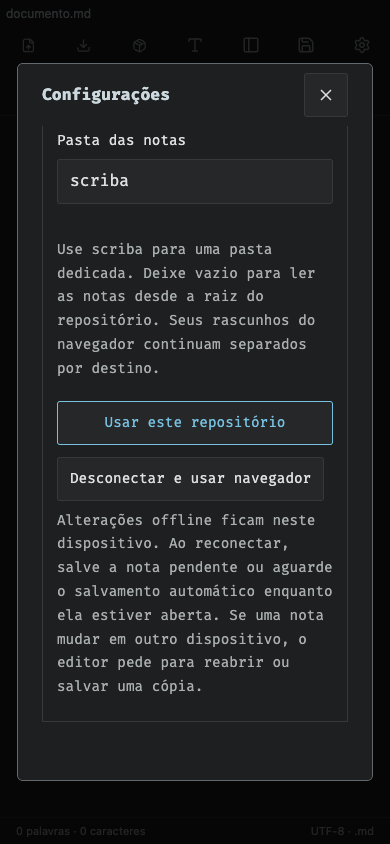
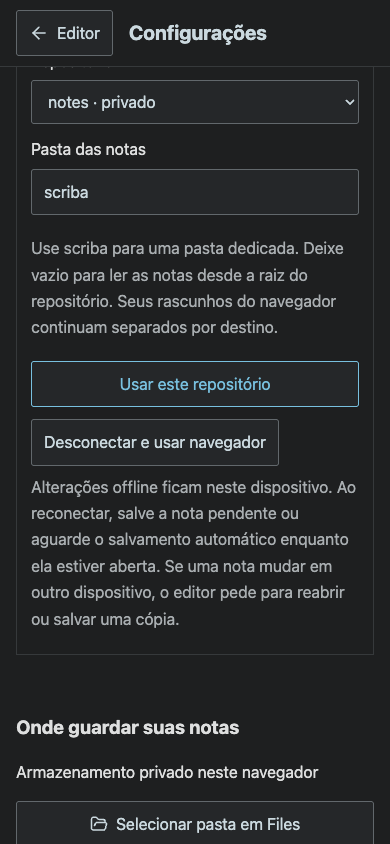
feat: replace settings modal with a dedicated full-page view

diff --git a/src/main.tsx b/src/main.tsx
@@ -4,7 +4,7 @@ import {canChooseFolder, chooseDeviceFolder, folderLabel, disconnectFolder, auth
 import {browserMode} from './lib/browserStore';
 import { StrictMode, useCallback, useEffect, useRef, useState } from 'react';
 import { createRoot } from 'react-dom/client';
-import { FolderGit2, FolderOpen, Save, Upload, Sun, Moon, FilePlus2, Settings, X, Download, CloudOff, PanelLeft, FileText, RefreshCw, Search, Pin, PinOff } from 'lucide-react';
+import { FolderGit2, FolderOpen, Save, Upload, Sun, Moon, FilePlus2, Settings, X, Download, CloudOff, PanelLeft, FileText, RefreshCw, Search, Pin, PinOff, ArrowLeft } from 'lucide-react';
 import { MarkdownWorkbench } from './components/Markdown/MarkdownWorkbench';
 import { NoteThumbnail } from './NoteThumbnail';
 import { noteGroup, shortNoteDate } from './lib/noteDates';
@@ -138,7 +138,20 @@ function App() {
     if (restoringAssets.current && !items.length) return;
     restoringAssets.current = false; setAssets(items);
   }, []);
-  const [settingsOpen, setSettingsOpen] = useState(() => new URLSearchParams(location.search).has('github'));
+  const [settingsOpen, setSettingsOpenState] = useState(() => location.hash === '#settings' || new URLSearchParams(location.search).has('github'));
+  const settingsTitle = useRef<HTMLHeadingElement>(null);
+  const settingsWasOpen = useRef(false);
+  function setSettingsOpen(open: boolean) {
+    if(open && location.hash !== '#settings') history.pushState({scribaSettings:true}, '', `${location.pathname}${location.search}#settings`);
+    if(!open && location.hash === '#settings') history.replaceState(null, '', `${location.pathname}${location.search}`);
+    setSettingsOpenState(open);
+  }
+  function backToEditor() {
+    if(history.state?.scribaSettings) history.back(); else setSettingsOpen(false);
+  }
+  useEffect(() => {const url=new URL(location.href);if(url.searchParams.has('github')){url.searchParams.delete('github');url.hash='settings';history.replaceState(null,'',url.pathname+url.search+url.hash);}}, []);
+  useEffect(() => {const navigate=()=>setSettingsOpenState(location.hash === '#settings');window.addEventListener('popstate',navigate);window.addEventListener('hashchange',navigate);return()=>{window.removeEventListener('popstate',navigate);window.removeEventListener('hashchange',navigate);};}, []);
+  useEffect(() => {if(settingsOpen)settingsTitle.current?.focus();else if(settingsWasOpen.current)document.querySelector<HTMLButtonElement>('button[aria-label="Configurações"]')?.focus();settingsWasOpen.current=settingsOpen;},[settingsOpen]);
   useEffect(() => {const showNotes=()=>setNotesOpen(true);window.addEventListener('scriba:show-notes',showNotes);return()=>window.removeEventListener('scriba:show-notes',showNotes);}, []);
   const [repository, setRepository] = useState<RepositoryInfo>({ repository: null, branch: '', status: '' });
   const [directory, setDirectory] = useState('');
@@ -372,7 +385,8 @@ function App() {
   const statusMessages = <>{error && <div role="alert" className="error toast">{error}<button aria-label="Dispensar erro" onClick={() => setError('')}><X size={18}/></button></div>}{notice && <p role="status" className="notice toast">{notice}</p>}</>;
   return <main aria-busy={busy} className="editor-app">
     {aboutOpen && <EditorDialog title="Sobre o Scriba" onClose={() => setAboutOpen(false)}><div className="about-scriba"><img src="/icons/profile-v3/scribe-180.png" width="96" height="96" alt="Escriba egípcio, símbolo do Scriba"/><h1>Scriba</h1><p className="about-subtitle">AB Markdown Editor</p><p>Scriba vem do latim e significa escriba: quem registra e preserva a palavra escrita. O escriba egípcio da nossa marca representa esse cuidado com suas ideias — agora em notas Markdown que continuam suas.</p><dl><div><dt>Versão</dt><dd>{__APP_VERSION__}</dd></div><div><dt>Compilação</dt><dd><time dateTime={__BUILD_DATE__}>{new Date(__BUILD_DATE__).toLocaleDateString('pt-BR')}</time></dd></div><div><dt>Edição</dt><dd>{browserMode ? 'Web / PWA' : 'Local para Mac'}</dd></div><div><dt>Desenvolvido por</dt><dd>Aeon Bridge Co.</dd></div></dl><p>Powered by Aeon Bridge Co. — offered to community.</p><a href="https://github.com/ab-orbit/ab-markdow-editor" target="_blank" rel="noopener noreferrer">Código-fonte e documentação</a></div></EditorDialog>}
-    {settingsOpen && <EditorDialog title="Configurações" onClose={() => setSettingsOpen(false)}>
+    {settingsOpen && <section className="settings-page" id="settings-page" aria-labelledby="settings-title">
+    <header className="settings-page-header"><div><button type="button" onClick={backToEditor} aria-label="Voltar ao editor"><ArrowLeft size={20}/><span>Editor</span></button><h1 id="settings-title" ref={settingsTitle} tabIndex={-1}>Configurações</h1></div></header>
     <div className="settings-content">
     <section className="pwa-settings" aria-label="Aplicativo PWA">
       <div className="pwa-brand"><img src={brandIcon} width="64" height="64" alt="Escriba egípcio do AB Markdown"/><div><h3>Scriba · AB Markdown Editor</h3><p>{pwa.standalone ? 'Aplicativo instalado' : 'Aplicativo web instalável'} · {pwa.ready ? 'Disponível offline' : 'Preparando modo offline'}</p></div></div>
@@ -411,7 +425,7 @@ function App() {
       </form>
     </section>
     {statusMessages}
-    </div></EditorDialog>}
+    </div></section>}
     {conflict && <EditorDialog title="Resolver versões do arquivo" onClose={() => setConflict(null)}>
       <p><strong>{conflict.name}</strong></p>
       <p>{conflict.kind === 'exists' ? 'Já existe um arquivo com esse nome na pasta.' : conflict.kind === 'deleted' ? 'O arquivo foi removido do disco desde a abertura.' : 'A nota mudou desde a abertura.'} Seu texto continua intacto no editor.</p>
@@ -429,7 +443,7 @@ function App() {
       </form>
     </EditorDialog>}
     {!settingsOpen && statusMessages}
-    <div className="editor-layout">
+    <div className="editor-layout" hidden={settingsOpen} inert={settingsOpen || undefined}>
     {notesOpen && <aside id="recent-notes" className="notes-sidebar" aria-label="Notas recentes">
       <div className="notes-heading"><button type="button" className="about-trigger" aria-label="Sobre o Scriba" title="Sobre o Scriba" onClick={() => setAboutOpen(true)}><img className="notes-logo" src={brandIcon} width="24" height="24" alt=""/></button><div><h2>Notas recentes</h2><p>{query ? `${visibleNotes.length + visiblePinned.length} resultados` : `${recentNotes.length + pinnedNotes.length} notas`}</p></div><button type="button" className="close-notes" aria-label="Fechar lista de notas" onClick={() => setNotesOpen(false)}><X size={18}/></button><button type="button" aria-label="Atualizar notas recentes" disabled={busy || !repository.repository || (offline && !browserMode)} onClick={() => void run(async () => { await refresh(); })}><RefreshCw size={18}/></button></div>
       <label className="notes-search"><Search size={16} aria-hidden="true"/><input type="search" aria-label="Buscar nas notas recentes" placeholder="Buscar notas…" value={noteSearch} onChange={event => setNoteSearch(event.target.value)}/></label>
@@ -446,7 +460,7 @@ function App() {
       <button type="button" aria-controls="recent-notes" aria-expanded={notesOpen} aria-label={notesOpen ? 'Ocultar notas recentes' : 'Mostrar notas recentes'} title="Notas recentes" onClick={() => setNotesOpen(open => !open)}><PanelLeft size={18}/></button>
       {offline && <span className="offline-indicator" aria-label="Modo offline"><CloudOff size={16}/><span>Offline</span></span>}
       {repository.repository && <button type="button" disabled={busy} aria-label={browserMode ? "Salvar nota" : "Salvar no repositório"} title={browserMode ? "Salvar nota (⌘S)" : "Salvar no repositório (⌘S)"} onClick={() => requestSave()}><Save size={18}/></button>}
-      <button type="button" aria-label="Configurações" title="Configurações" aria-haspopup="dialog" aria-expanded={settingsOpen} onClick={() => setSettingsOpen(true)}><Settings size={18}/></button>
+      <button type="button" aria-label="Configurações" title="Configurações" aria-controls="settings-page" aria-expanded={settingsOpen} onClick={() => setSettingsOpen(true)}><Settings size={18}/></button>
     </>}/></fieldset>
     </div>
   </main>;

diff --git a/tests/responsive.spec.ts b/tests/responsive.spec.ts
@@ -25,7 +25,7 @@ for(const device of devices)test(`${device.name}: touch workflow in both orienta
   git('init','-b','main',repo);git('init','--bare','-b','main',remote);for(const [key,value]of[['user.name','Responsive Test'],['user.email','responsive@example.invalid'],['commit.gpgsign','false'],['core.hooksPath','/dev/null']])git('-C',repo,'config',key,value);
   const content='# Responsividade\n\nTexto inicial.\n\n'+Array.from({length:20},(_,i)=>`## Seção ${i}\n\nParágrafo ${i}: leitura longa em celular e tablet, sem perda de conteúdo.\n\n`).join('')+'\n| Coluna A | Coluna B |\n| --- | --- |\n| Teste | Conteúdo |\n\n```text\n'+'a'.repeat(500)+'\n```\n';
   await writeFile(join(repo,'responsive.md'),content);git('-C',repo,'add','.');git('-C',repo,'commit','-m','Initial');git('-C',repo,'remote','add','origin',remote);git('-C',repo,'push','-u','origin','main');
-  await page.setViewportSize({width:device.width,height:device.height});await page.goto('/');const settings=page.getByRole('dialog',{name:'Configurações',exact:true});await expect(settings).toBeVisible();if(!(await page.locator('details.repository').evaluate(el=>el.hasAttribute('open'))))await page.locator('details.repository > summary').tap();await page.route('**/api/pick-folder',route=>route.fulfill({json:{directory:repo}}));await page.getByRole('button',{name:'Selecionar pasta',exact:true}).tap();await expect(settings).toHaveCount(0);
+  await page.setViewportSize({width:device.width,height:device.height});await page.goto('/');const settings=page.getByRole('region', {name:'Configurações',exact:true});await expect(settings).toBeVisible();if(!(await page.locator('details.repository').evaluate(el=>el.hasAttribute('open'))))await page.locator('details.repository > summary').tap();await page.route('**/api/pick-folder',route=>route.fulfill({json:{directory:repo}}));await page.getByRole('button',{name:'Selecionar pasta',exact:true}).tap();await expect(settings).toHaveCount(0);
   await page.getByRole('button',{name:'Mostrar notas recentes'}).tap();await page.getByRole('searchbox',{name:'Buscar nas notas recentes'}).fill('responsividade');await page.getByRole('button',{name:'responsive.md',exact:true}).tap();await page.getByRole('button',{name:'Visão',exact:true}).tap();await splitFits(page);
   for(const orientation of ['portrait','landscape']as const){
    const viewport=orientation==='portrait'?{width:device.width,height:device.height}:{width:device.height,height:device.width};await page.setViewportSize(viewport);await splitFits(page);
@@ -35,7 +35,7 @@ for(const device of devices)test(`${device.name}: touch workflow in both orienta
    const preview=page.getByRole('article');await preview.evaluate(el=>el.scrollTop=el.scrollHeight);await expect(preview).toContainText('Seção 19');await preview.evaluate(el=>el.scrollTop=0);
    for(const button of await page.locator('header button').all()){if(await button.isVisible()){const box=await button.boundingBox();expect(box!.height).toBeGreaterThanOrEqual(44);expect(box!.width).toBeGreaterThanOrEqual(44);}}
    await page.getByRole('button',{name:'Mostrar formatação'}).tap();await expect(page.getByRole('toolbar',{name:'Ferramentas de edição'})).toBeVisible();await page.getByRole('button',{name:'Ocultar formatação'}).tap();
-   await page.getByRole('button',{name:'Configurações',exact:true}).tap();await expect(settings).toBeVisible();await page.getByLabel('Intervalo (minutos)',{exact:true}).fill('2');if(orientation==='landscape')await page.getByLabel('Perguntar nota do commit a cada salvamento',{exact:true}).check();await page.getByRole('button',{name:'Salvar preferências',exact:true}).tap();await settings.getByRole('button',{name:'Fechar',exact:true}).tap();
+   await page.getByRole('button',{name:'Configurações',exact:true}).tap();await expect(settings).toBeVisible();await page.getByLabel('Intervalo (minutos)',{exact:true}).fill('2');if(orientation==='landscape')await page.getByLabel('Perguntar nota do commit a cada salvamento',{exact:true}).check();await page.getByRole('button',{name:'Salvar preferências',exact:true}).tap();await settings.getByRole('button',{name:'Voltar ao editor',exact:true}).tap();
[1 lines of base64/hex data omitted]
    await page.getByRole('button',{name:'Salvar no repositório',exact:true}).tap();
    if(orientation==='landscape'){const note=page.getByRole('dialog',{name:'Nota do commit',exact:true});await expect(note).toBeVisible();await note.getByLabel('Nota do commit',{exact:true}).fill('Touch landscape save');await note.getByRole('button',{name:'Salvar, commit e push',exact:true}).tap();}
@@ -51,7 +51,7 @@ for(const device of devices)test(`${device.name}: touch workflow in both orienta
    const downloaded=page.waitForEvent('download');await page.getByRole('button',{name:'Baixar pacote',exact:true}).tap();const file=await downloaded;const archive=unzipSync(new Uint8Array(await readFile((await file.path())!)));expect(strFromU8(archive['text.md'])).toContain(`Orientação ${orientation}`);expect(Object.keys(archive).some(name=>name.startsWith('assets/'))).toBe(true);
    await page.getByRole('button',{name:'Visão',exact:true}).tap();
   }
-  await page.getByRole('button',{name:'Configurações',exact:true}).tap();await page.getByLabel('Perguntar nota do commit a cada salvamento',{exact:true}).uncheck();await page.getByRole('button',{name:'Salvar preferências',exact:true}).tap();await settings.getByRole('button',{name:'Fechar',exact:true}).tap();
+  await page.getByRole('button',{name:'Configurações',exact:true}).tap();await page.getByLabel('Perguntar nota do commit a cada salvamento',{exact:true}).uncheck();await page.getByRole('button',{name:'Salvar preferências',exact:true}).tap();await settings.getByRole('button',{name:'Voltar ao editor',exact:true}).tap();
   await page.setViewportSize({width:device.width,height:Math.min(280,device.height)});await page.getByRole('button',{name:'Fonte',exact:true}).tap();await page.locator('.cm-content').tap();await page.keyboard.press('ControlOrMeta+Home');await page.keyboard.insertText('Teclado: texto preservado.\n');await shellFits(page);await page.screenshot({path:`docs/evidence/${browserName}-${device.name}-keyboard-area.png`,fullPage:true});await page.setViewportSize({width:device.width,height:device.height});await expect(page.locator('.cm-content')).toContainText('Teclado: texto preservado.');
   await page.getByRole('button',{name:'Salvar no repositório',exact:true}).tap();await expect(page.getByRole('status')).toHaveText('Arquivo salvo, commit criado e enviado ao remoto.');expect(git('-C',remote,'show','main:responsive.md')).toContain('Teclado: texto preservado.');
   await context.setOffline(true);await page.locator('.cm-content').tap();await page.keyboard.press('ControlOrMeta+Home');await page.keyboard.insertText('Rascunho sem rede.\n');await page.getByRole('button',{name:'Salvar no repositório',exact:true}).tap();await expect(page.getByRole('status')).toContainText('Rascunho preservado');await shellFits(page);await expect(page.getByLabel('Modo offline',{exact:true})).toBeVisible();await durableDraft(page,'Rascunho sem rede.');

diff --git a/tests/editor.spec.ts b/tests/editor.spec.ts
@@ -16,7 +16,7 @@ for (const viewport of [{ name: 'desktop', width: 1440, height: 900 }, { name: '
       git('-C',repo,'add','.');git('-C',repo,'commit','-m','Initial');git('-C',repo,'remote','add','origin',remote);git('-C',repo,'push','-u','origin','main');
       await page.setViewportSize(viewport); await page.goto('/');
       page.on('dialog', dialog => dialog.accept());
-      const settings = page.getByRole('dialog', { name: 'Configurações', exact: true });
+      const settings = page.getByRole('region', {name:'Configurações',exact:true});
       const gear = page.getByRole('button', { name: 'Configurações', exact: true });
       await expect(settings).toBeVisible();
       const summary = page.locator('details.repository > summary');
@@ -41,7 +41,7 @@ for (const viewport of [{ name: 'desktop', width: 1440, height: 900 }, { name: '
       await expect(page.getByLabel('Nova pasta local (caminho absoluto)')).toHaveValue(`${repo}/research`);
       await page.getByText('Clonar um repositório por URL', { exact: true }).click();
       await page.getByLabel('Caminho do arquivo no repositório').fill('notes/pesquisa.md');
-      await settings.getByRole('button', { name: 'Fechar', exact: true }).click();
+      await settings.getByRole('button',{name:'Voltar ao editor',exact:true}).click();
       const source = page.locator('.cm-content'); await source.click(); await page.keyboard.insertText('# Pesquisa\n\nTexto com **evidências**.\n\n- [ ] Conferir fontes\n');
       await gear.click();
       await page.keyboard.press('Escape');
@@ -72,7 +72,7 @@ for (const viewport of [{ name: 'desktop', width: 1440, height: 900 }, { name: '
       await gear.click();
       await page.screenshot({ path: `docs/evidence/${viewport.name}-settings.png`, fullPage: true });
       await page.getByRole('button', { name: 'Usar tema claro' }).click();
-      await settings.getByRole('button', { name: 'Fechar', exact: true }).click();
+      await settings.getByRole('button',{name:'Voltar ao editor',exact:true}).click();
       await expect(page.locator('html')).toHaveAttribute('data-theme','light');
       await page.screenshot({ path: `docs/evidence/${viewport.name}-repository-document-light.png`, fullPage: true });
       // Fake only browser time; filesystem, HTTP, Git commits and pushes remain real.
@@ -86,7 +86,7 @@ for (const viewport of [{ name: 'desktop', width: 1440, height: 900 }, { name: '
       await page.getByRole('region', { name: 'Preferências de salvamento' }).scrollIntoViewIfNeeded();
       expect(await settings.evaluate(el => el.scrollWidth <= el.clientWidth)).toBe(true);
       await page.screenshot({ path: `docs/evidence/${viewport.name}-autosave-settings.png`, fullPage: true });
-      await settings.getByRole('button', { name: 'Fechar', exact: true }).click();
+      await settings.getByRole('button',{name:'Voltar ao editor',exact:true}).click();
       await page.getByRole('button', { name: 'Fonte', exact: true }).click();
       await source.click(); await page.keyboard.insertText('Texto automático de um minuto.');
       await page.clock.fastForward(60000);
@@ -123,7 +123,7 @@ for (const viewport of [{ name: 'desktop', width: 1440, height: 900 }, { name: '
       await page.getByLabel('Perguntar nota do commit a cada salvamento', { exact: true }).uncheck();
       await page.getByRole('button', { name: 'Salvar preferências', exact: true }).click();
       await expect(page.getByRole('status')).toHaveText('Preferências de salvamento atualizadas.');
-      await settings.getByRole('button', { name: 'Fechar', exact: true }).click();
+      await settings.getByRole('button',{name:'Voltar ao editor',exact:true}).click();
       await source.click(); await page.keyboard.insertText('Intervalo de dois minutos.');
       await page.clock.fastForward(60000);
       await expect(note).toHaveCount(0);
@@ -142,7 +142,7 @@ for (const viewport of [{ name: 'desktop', width: 1440, height: 900 }, { name: '
       await page.getByLabel('Intervalo (minutos)', { exact: true }).fill('1');
       await page.getByRole('button', { name: 'Salvar preferências', exact: true }).click();
       await expect(page.getByRole('status')).toHaveText('Preferências de salvamento atualizadas.');
-      await settings.getByRole('button', { name: 'Fechar', exact: true }).click();
+      await settings.getByRole('button',{name:'Voltar ao editor',exact:true}).click();
       const contrast = await page.evaluate(() => {
         const original = document.documentElement.dataset.theme;
         const results: {token: string; ratio: number}[] = [];

diff --git a/tests/drafts.spec.ts b/tests/drafts.spec.ts
@@ -5,14 +5,14 @@ test.use({serviceWorkers:'block'});
 test('legacy browser draft retains text and image after storage format upgrade',async({page,browserName})=>{
  test.skip(browserName!=='chromium','Older File-based drafts are exercised in Chromium, which can create them.');
  await page.route('**/api/repository',route=>route.fulfill({json:{repository:null,branch:'',status:''}}));
- await page.goto('/');await expect(page.getByRole('dialog',{name:'Configurações',exact:true})).toBeVisible();
+ await page.goto('/');await expect(page.getByRole('region', {name:'Configurações',exact:true})).toBeVisible();
  await page.evaluate(async()=>{
   const id=sessionStorage.getItem('ab-markdown-draft-id')!;
[1 lines of base64/hex data omitted]
   const value='# Rascunho legado\n\nTexto anterior à atualização.\n\n![imagem](assets/legacy.png)\n';
   await new Promise<void>((resolve,reject)=>{const request=indexedDB.open('ab-markdown-drafts',1);request.onsuccess=()=>{const db=request.result,transaction=db.transaction('drafts','readwrite');transaction.objectStore('drafts').put({id,repository:{repository:null,branch:'',status:''},name:'legado.md',loadedName:'legado.md',value,baseline:value,version:null,importedVersion:null,pendingSync:false,preferences:{askCommitNote:false,autoSave:false,intervalMinutes:1},assets:[{path:'assets/legacy.png',file:new File([bytes],'legacy.png',{type:'image/png'})}],updatedAt:Date.now()});transaction.oncomplete=()=>{db.close();resolve();};transaction.onerror=()=>reject(transaction.error);};request.onerror=()=>reject(request.error);});
  });
- await page.reload();const settings=page.getByRole('dialog',{name:'Configurações',exact:true});await expect(settings).toBeVisible();await settings.getByRole('button',{name:'Fechar',exact:true}).click();await page.getByRole('button',{name:'Ler',exact:true}).click();await expect(page.getByRole('article')).toContainText('Texto anterior à atualização.');await expect(page.locator('article img')).toBeVisible();
+ await page.reload();const settings=page.getByRole('region', {name:'Configurações',exact:true});await expect(settings).toBeVisible();await settings.getByRole('button',{name:'Voltar ao editor',exact:true}).click();await page.getByRole('button',{name:'Ler',exact:true}).click();await expect(page.getByRole('article')).toContainText('Texto anterior à atualização.');await expect(page.locator('article img')).toBeVisible();
  await expect.poll(()=>page.evaluate(()=>new Promise<boolean>((resolve,reject)=>{const request=indexedDB.open('ab-markdown-drafts',1);request.onsuccess=()=>{const db=request.result;const get=db.transaction('drafts').objectStore('drafts').get(sessionStorage.getItem('ab-markdown-draft-id')!);get.onsuccess=()=>{resolve(get.result.assets[0].bytes instanceof ArrayBuffer);db.close();};get.onerror=()=>reject(get.error);};request.onerror=()=>reject(request.error);}))).toBe(true);
  const event=page.waitForEvent('download');await page.getByRole('button',{name:'Baixar pacote',exact:true}).click();const download=await event;const archive=unzipSync(new Uint8Array(await readFile((await download.path())!)));expect(strFromU8(archive['text.md'])).toContain('Rascunho legado');expect(Object.keys(archive).some(name=>name.startsWith('assets/'))).toBe(true);await expect(page.getByRole('alert')).toHaveCount(0);
 });

diff --git a/tests/sidebar.spec.ts b/tests/sidebar.spec.ts
@@ -10,7 +10,7 @@ for(const viewport of [{name:'desktop',width:1440,height:900},{name:'mobile',wid
    for(const [key,value] of [['user.name','Sidebar Test'],['user.email','sidebar@example.invalid'],['commit.gpgsign','false'],['core.hooksPath','/dev/null']])git('-C',repo,'config',key,value);
    for(let i=0;i<105;i++){const filename=join(repo,`note-${String(i).padStart(3,'0')}.md`);await writeFile(filename,`# Nota ${i}\n\nConteúdo ${i}.`);const time=i>=102 ? new Date(Date.now()-(104-i)*86400000-2*3600000) : new Date(Date.UTC(2020,0,1,0,0,i));await utimes(filename,time,time);}
    git('-C',repo,'add','.');git('-C',repo,'commit','-m','Initial');git('-C',repo,'remote','add','origin',remote);git('-C',repo,'push','-u','origin','main');
-   await page.setViewportSize(viewport);await page.goto('/');const settings=page.getByRole('dialog',{name:'Configurações',exact:true});await expect(settings).toBeVisible();
+   await page.setViewportSize(viewport);await page.goto('/');const settings=page.getByRole('region', {name:'Configurações',exact:true});await expect(settings).toBeVisible();
    if(!(await page.locator('details.repository').evaluate(el=>el.hasAttribute('open'))))await page.locator('details.repository > summary').click();
    await page.route('**/api/pick-folder',route=>route.fulfill({json:{directory:repo}}));await page.getByRole('button',{name:'Selecionar pasta',exact:true}).click();await expect(settings).toHaveCount(0);
    if(viewport.name==='mobile')await page.getByRole('button',{name:'Mostrar notas recentes'}).click();
@@ -42,7 +42,7 @@ for(const viewport of [{name:'desktop',width:1440,height:900},{name:'mobile',wid
    page.once('dialog',dialog=>dialog.accept());await sidebar.getByRole('button',{name:'note-103.md',exact:true}).click();await page.getByRole('button',{name:'Fonte',exact:true}).click();await expect(source).toContainText('Conteúdo 103');await source.click();await page.keyboard.insertText('Atualizado');
    await page.getByRole('button',{name:'Salvar no repositório',exact:true}).click();await expect(page.getByRole('status')).toHaveText('Arquivo salvo, commit criado e enviado ao remoto.');
    if(viewport.name==='mobile')await page.getByRole('button',{name:'Mostrar notas recentes'}).click();await expect(recent.locator('strong').first()).toHaveText('Nota 103');
-   await page.getByRole('button',{name:'Configurações',exact:true}).click();await page.getByRole('button',{name:'Usar tema claro'}).click();await settings.getByRole('button',{name:'Fechar',exact:true}).click();
+   await page.getByRole('button',{name:'Configurações',exact:true}).click();await page.getByRole('button',{name:'Usar tema claro'}).click();await settings.getByRole('button',{name:'Voltar ao editor',exact:true}).click();
    await page.screenshot({path:`docs/evidence/${viewport.name}-recent-notes-light.png`,fullPage:true});expect(await page.evaluate(()=>document.documentElement.scrollWidth<=innerWidth)).toBe(true);
   }finally{await rm(temporary,{recursive:true,force:true});}
  });

diff --git a/tests/pwa.spec.ts b/tests/pwa.spec.ts
@@ -15,7 +15,7 @@ for (const viewport of [{name:'desktop',width:1440,height:900},{name:'mobile',wi
       for(const [key,value] of [['user.name','PWA Test'],['user.email','pwa@example.invalid'],['commit.gpgsign','false'],['core.hooksPath','/dev/null']])git('-C',repo,'config',key,value);
       await writeFile(join(repo,'README.md'),'# PWA\n');git('-C',repo,'add','.');git('-C',repo,'commit','-m','Initial');git('-C',repo,'remote','add','origin',remote);git('-C',repo,'push','-u','origin','main');
       await page.setViewportSize(viewport);await page.goto('/');page.on('dialog',dialog=>dialog.accept());
-      const settings=page.getByRole('dialog',{name:'Configurações',exact:true});const gear=page.getByRole('button',{name:'Configurações',exact:true});
+      const settings=page.getByRole('region', {name:'Configurações',exact:true});const gear=page.getByRole('button',{name:'Configurações',exact:true});
       await expect(settings).toBeVisible();
       if(!(await page.locator('details.repository').evaluate(el=>el.hasAttribute('open'))))await page.locator('details.repository > summary').click();
       await page.route('**/api/pick-folder',route=>route.fulfill({json:{directory:repo}}));
@@ -27,7 +27,7 @@ for (const viewport of [{name:'desktop',width:1440,height:900},{name:'mobile',wi
       for(const icon of manifest.icons){const dimensions=await page.evaluate(async(src:string)=>{const image=await createImageBitmap(await(await fetch(src)).blob());return `${image.width}x${image.height}`;},icon.src);expect(dimensions).toBe(icon.sizes);}
       const cdp=await context.newCDPSession(page);const installability=await cdp.send('Page.getInstallabilityErrors');expect(installability.installabilityErrors.filter((error:{errorId:string})=>error.errorId!=='in-incognito')).toEqual([]);
       expect((await cdp.send('Page.getAppManifest')).url).toContain('/manifest.webmanifest');
-      await gear.click();await page.getByLabel('Caminho do arquivo no repositório').fill('caderno-pwa.md');await settings.getByRole('button',{name:'Fechar',exact:true}).click();
+      await gear.click();await page.getByLabel('Caminho do arquivo no repositório').fill('caderno-pwa.md');await settings.getByRole('button',{name:'Voltar ao editor',exact:true}).click();
       await page.getByRole('button',{name:'Fonte',exact:true}).click();const source=page.locator('.cm-content');await source.click();await page.keyboard.insertText('# Caderno PWA\n\nTexto com conexão.\n');
[1 lines of base64/hex data omitted]
       await page.getByLabel('Arquivos de imagem',{exact:true}).setInputFiles({name:'pixel.png',mimeType:'image/png',buffer:image});

diff --git a/src/style.css b/src/style.css
@@ -188,3 +188,18 @@ body { font-family: var(--font-ui); }
 .about-scriba dt { color: var(--text-muted); }
 .about-scriba dd { margin: 0; }
 .about-scriba a { color: var(--cyan); overflow-wrap: anywhere; }
+
+/* Settings is a full page; the mounted editor retains its document and cursor state. */
+.editor-layout[hidden] { display: none; }
+.settings-page { height: 100%; width: 100%; min-height: 0; overflow-y: auto; overscroll-behavior: contain; background: var(--bg-surface); color: var(--text-secondary); font: 16px/1.65 var(--font-ui); }
+.settings-page-header { position: sticky; top: 0; z-index: 3; background: var(--bg-surface); border-bottom: 1px solid var(--border-panel); }
+.settings-page-header > div { display: flex; align-items: center; gap: 24px; max-width: 1040px; margin: 0 auto; padding: 12px 24px; }
+.settings-page-header h1 { margin: 0; color: var(--text-primary); font-size: 22px; line-height: 1.4; }
+.settings-page-header h1:focus { outline: none; }
+.settings-page .settings-content { width: 100%; max-width: 1040px; margin: 0 auto; padding: 28px 24px 64px; }
+.settings-page input, .settings-page select, .settings-page textarea { max-width: 100%; }
+@media (max-width: 600px) {
+ .settings-page-header > div { padding: 10px 16px; gap: 16px; }
+ .settings-page-header h1 { font-size: 20px; }
+ .settings-page .settings-content { padding: 20px 16px 48px; }
+}

diff --git a/tests/import-conflict.spec.ts b/tests/import-conflict.spec.ts
@@ -17,7 +17,7 @@ test(`${viewport.name}: local file import binds its original version; real confl
     for (const [key, value] of [['user.name','Import Test'],['user.email','import@example.invalid'],['commit.gpgsign','false'],['core.hooksPath','/dev/null']]) git('-C',repo,'config',key,value);
     await writeFile(join(repo,'existing.md'), original); git('-C',repo,'add','.');git('-C',repo,'commit','-m','Initial');git('-C',repo,'remote','add','origin',remote);git('-C',repo,'push','-u','origin','main');
     await page.goto('/'); page.on('dialog', dialog => dialog.accept());
-    const settings = page.getByRole('dialog', { name: 'Configurações', exact: true });
+    const settings = page.getByRole('region', {name:'Configurações',exact:true});
     const gear = page.getByRole('button', { name: 'Configurações', exact: true });
     await expect(settings).toBeVisible();
     if (!(await page.locator('details.repository').evaluate(el => el.hasAttribute('open')))) await page.locator('details.repository > summary').click();
